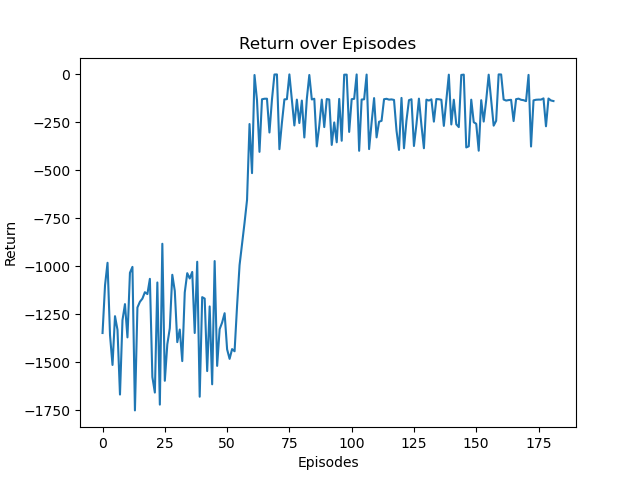
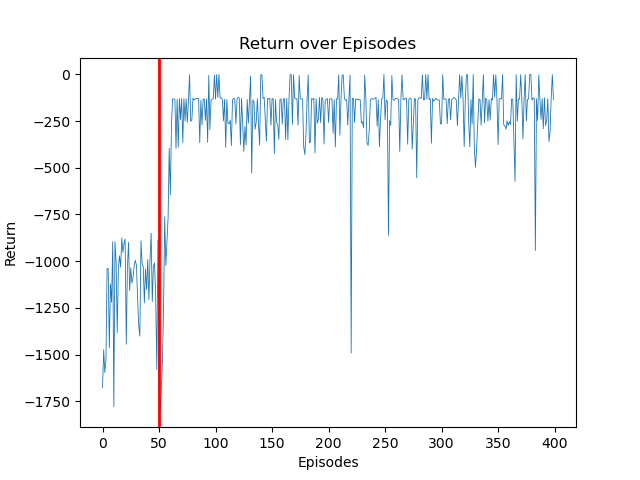
graph changed

diff --git a/Deep Deterministic Policy Gradient (DDPG)/DDPG_Main.py b/Deep Deterministic Policy Gradient (DDPG)/DDPG_Main.py
@@ -3,6 +3,7 @@ import numpy as np
 from collections import deque
 import sys
 from matplotlib import pyplot as plt
+from tensorflow.python import training
 import gym
 import tensorflow as tf
 from DDPG_Networks import DDPG
@@ -31,6 +32,7 @@ if __name__ == "__main__":
 
     step = 0
     return_lst = []
+    training_started = None
     for episode in range(config.EPISODES):
         # for each episode, reset the environment
         state = env.reset()
@@ -43,7 +45,6 @@ if __name__ == "__main__":
             # retrieve the action from the ddpg model
             action = ddpg.act(state)
             
-
             # input the action to the environment, and obtain the following
             next_state, reward, done, _ = env.step(action)
             
@@ -52,6 +53,8 @@ if __name__ == "__main__":
 
             # if there are enough instances in the replay experience queue, start the training
             if config.COUNTER > config.MEMORY_CAPACITY:
+                if training_started == None:
+                    training_started = episode
                 ddpg.train()
                 # actor_loss, critic_loss = ddpg.train()
                 #print("Actor Loss: %.4f,\tCritic Loss: %.4f" % (actor_loss, critic_loss))
@@ -73,9 +76,10 @@ if __name__ == "__main__":
         
         if np.mean(return_lst[-30:]) > -150:
             print("\n\t\t\t\t\t\tGoal Accomplished!\t\t\t\t\t\t\n")
-            plt.plot(return_lst)
-            plt.title("Return over Episodes")
-            plt.xlabel("Episodes")
-            plt.ylabel("Return")
-            plt.savefig("Return Graph.png")
-            sys.exit()
+    
+    plt.plot(return_lst, linewidth=0.6, label='Episode Return')
+    plt.axvline(training_started, linewidth=2, color="r", label='Training Phase Began')
+    plt.title("Return over Episodes")
+    plt.xlabel("Episodes")
+    plt.ylabel("Return")
+    plt.savefig("Return Graph.png")

diff --git a/README.md b/README.md
@@ -1,1 +1,1 @@
-# Reinforcement-Learning
+# Policy Gradient Reinforcement Learning Models
